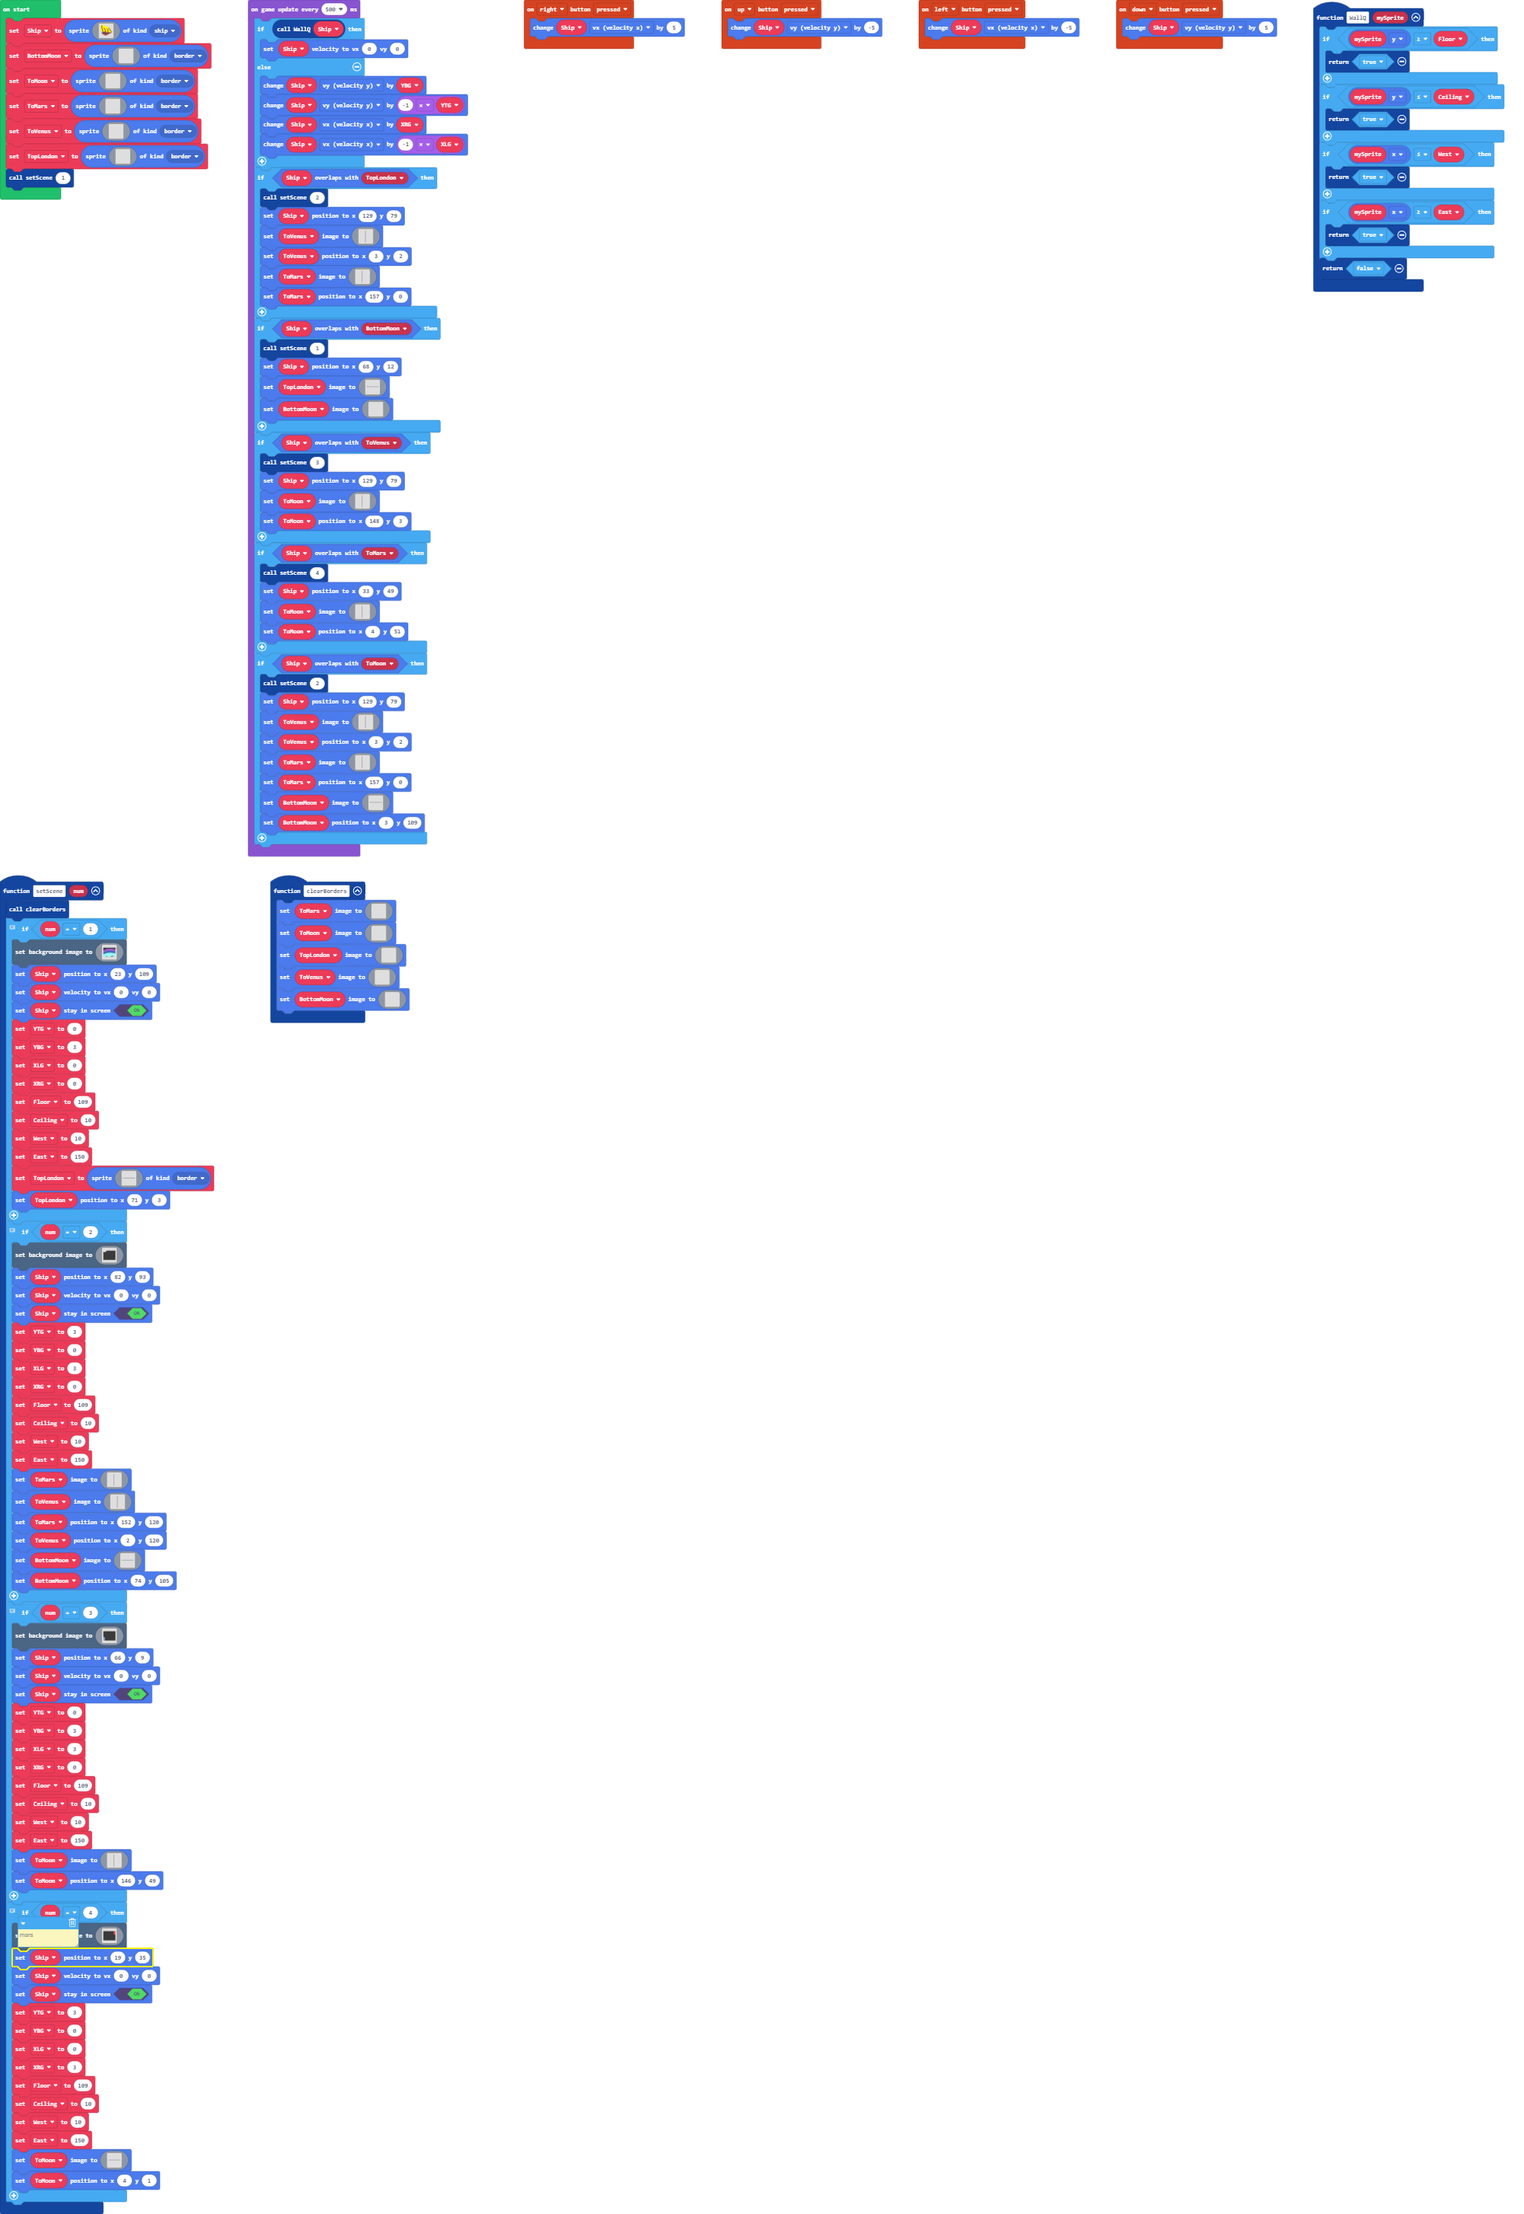
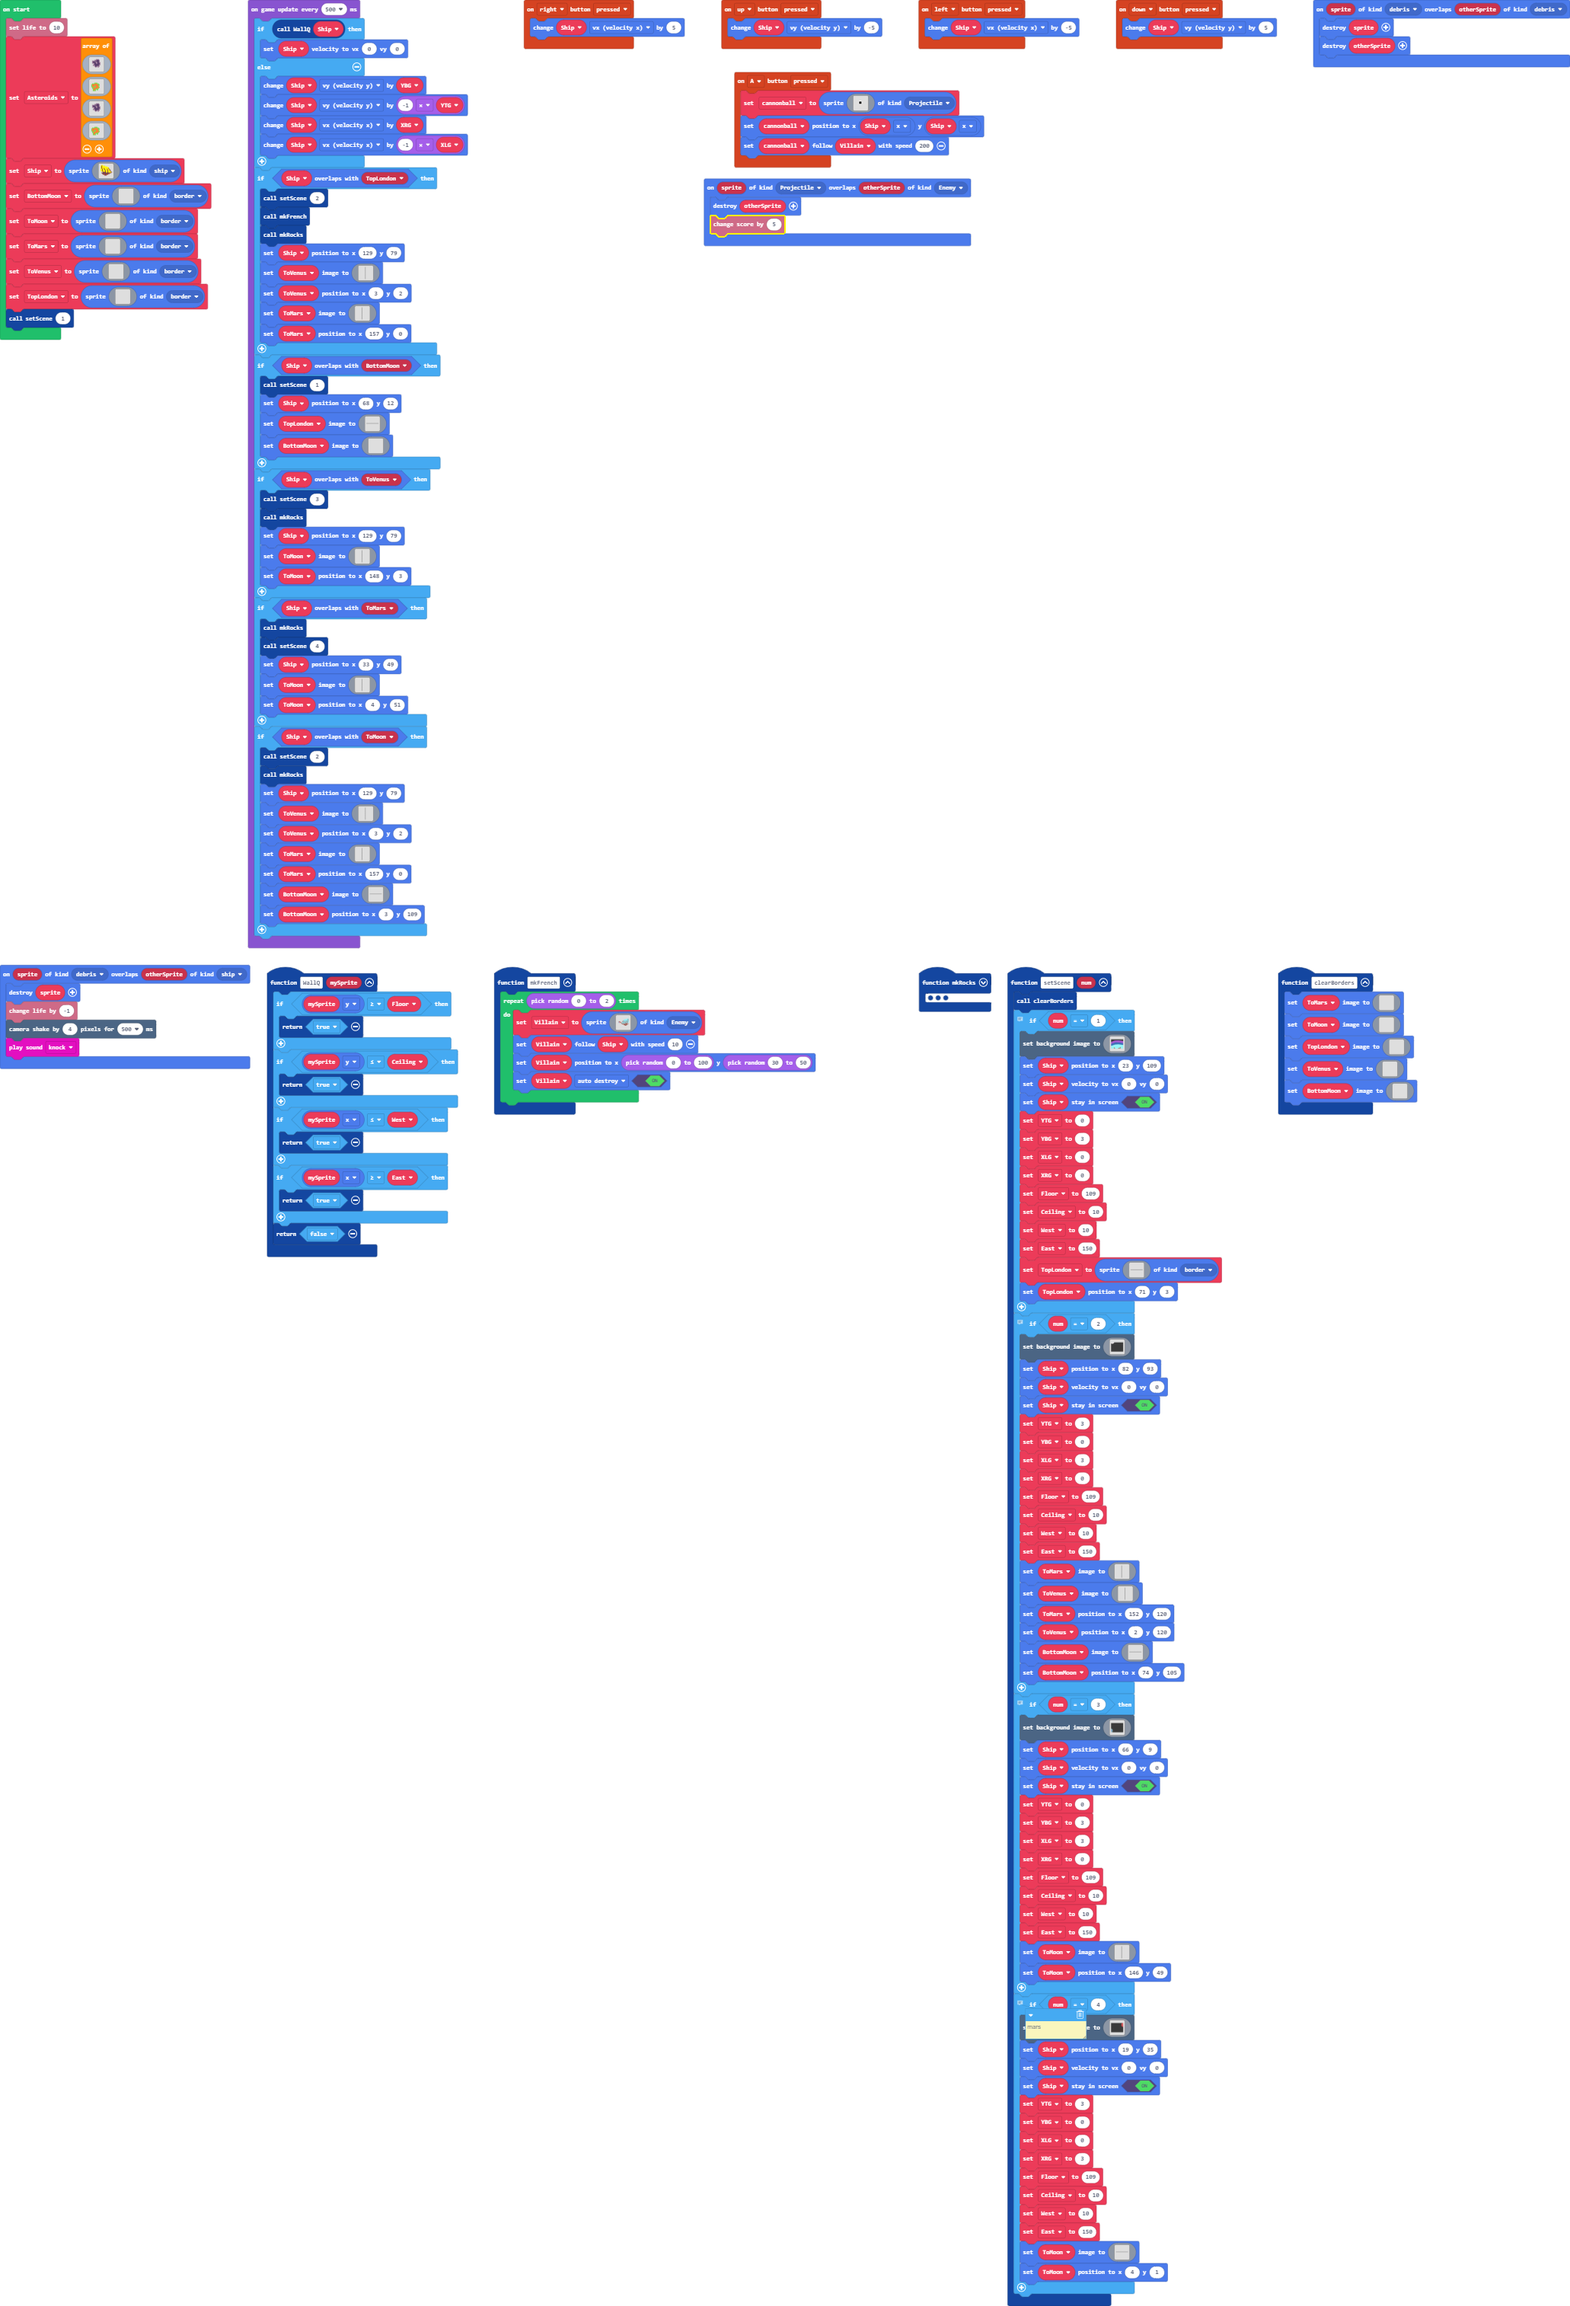
Update main.blocks, main.ts, images.g.jres, images.g.ts

diff --git a/main.ts b/main.ts
@@ -1,15 +1,43 @@
 namespace SpriteKind {
     export const ship = SpriteKind.create()
     export const border = SpriteKind.create()
+    export const debris = SpriteKind.create()
 }
 controller.up.onEvent(ControllerButtonEvent.Pressed, function () {
     Ship.vy += -5
 })
+controller.A.onEvent(ControllerButtonEvent.Pressed, function () {
+    cannonball = sprites.create(assets.image`cannonball`, SpriteKind.Projectile)
+    cannonball.setPosition(Ship.x, Ship.x)
+    cannonball.follow(Villain, 200)
+})
 controller.left.onEvent(ControllerButtonEvent.Pressed, function () {
     Ship.vx += -5
 })
+function mkRocks () {
+    for (let index = 0; index < randint(2, 5); index++) {
+        rock = sprites.create(Asteroids[randint(0, 3)], SpriteKind.debris)
+        rock.setVelocity(randint(-50, 50), randint(-50, 50))
+        rock.setPosition(randint(30, 50), randint(30, 50))
+        rock.setFlag(SpriteFlag.DestroyOnWall, true)
+    }
+}
 controller.right.onEvent(ControllerButtonEvent.Pressed, function () {
     Ship.vx += 5
+})
+function mkFrench () {
+    for (let index = 0; index < randint(0, 2); index++) {
+        Villain = sprites.create(assets.image`French`, SpriteKind.Enemy)
+        Villain.follow(Ship, 10)
+        Villain.setPosition(randint(0, 100), randint(30, 50))
+        Villain.setFlag(SpriteFlag.AutoDestroy, true)
+    }
+}
+sprites.onOverlap(SpriteKind.debris, SpriteKind.ship, function (sprite, otherSprite) {
+    sprite.destroy()
+    info.changeLifeBy(-1)
+    scene.cameraShake(4, 500)
+    music.knock.play()
 })
 function WallQ (mySprite: Sprite) {
     if (mySprite.y >= Floor) {
@@ -28,6 +56,10 @@ function WallQ (mySprite: Sprite) {
 }
 controller.down.onEvent(ControllerButtonEvent.Pressed, function () {
     Ship.vy += 5
+})
+sprites.onOverlap(SpriteKind.debris, SpriteKind.debris, function (sprite, otherSprite) {
+    sprite.destroy()
+    otherSprite.destroy()
 })
 function setScene (num: number) {
     clearBorders()
@@ -105,6 +137,10 @@ function setScene (num: number) {
         ToMoon.setPosition(4, 1)
     }
 }
+sprites.onOverlap(SpriteKind.Projectile, SpriteKind.Enemy, function (sprite, otherSprite) {
+    otherSprite.destroy()
+    info.changeScoreBy(5)
+})
 function clearBorders () {
     ToMars.setImage(assets.image`blah`)
     ToMoon.setImage(assets.image`blah`)
@@ -120,12 +156,23 @@ let East = 0
 let West = 0
 let Ceiling = 0
 let Floor = 0
+let rock: Sprite = null
+let Villain: Sprite = null
+let cannonball: Sprite = null
 let TopLondon: Sprite = null
 let ToVenus: Sprite = null
 let ToMars: Sprite = null
 let ToMoon: Sprite = null
 let BottomMoon: Sprite = null
 let Ship: Sprite = null
+let Asteroids: Image[] = []
+info.setLife(10)
+Asteroids = [
+assets.image`Asteroid1`,
+assets.image`Asteroid2`,
+assets.image`Asteroid1`,
+assets.image`Asteroid2`
+]
 Ship = sprites.create(assets.image`ship`, SpriteKind.ship)
 BottomMoon = sprites.create(assets.image`blah`, SpriteKind.border)
 ToMoon = sprites.create(assets.image`blah`, SpriteKind.border)
@@ -144,6 +191,8 @@ game.onUpdateInterval(500, function () {
     }
     if (Ship.overlapsWith(TopLondon)) {
         setScene(2)
+        mkFrench()
+        mkRocks()
         Ship.setPosition(129, 79)
         ToVenus.setImage(assets.image`Edge`)
         ToVenus.setPosition(3, 2)
@@ -158,11 +207,13 @@ game.onUpdateInterval(500, function () {
     }
     if (Ship.overlapsWith(ToVenus)) {
         setScene(3)
+        mkRocks()
         Ship.setPosition(129, 79)
         ToMoon.setImage(assets.image`Edge`)
         ToMoon.setPosition(148, 3)
     }
     if (Ship.overlapsWith(ToMars)) {
+        mkRocks()
         setScene(4)
         Ship.setPosition(33, 49)
         ToMoon.setImage(assets.image`Edge`)
@@ -170,6 +221,7 @@ game.onUpdateInterval(500, function () {
     }
     if (Ship.overlapsWith(ToMoon)) {
         setScene(2)
+        mkRocks()
         Ship.setPosition(129, 79)
         ToVenus.setImage(assets.image`Edge`)
         ToVenus.setPosition(3, 2)

diff --git a/images.g.ts b/images.g.ts
@@ -781,6 +781,82 @@ ffffffffffffffffffffffffffffffffffffffffffffffffffffffffffffffffffffffffffffffff
 ffffffffffffffffffffffffffffffffffffffffffffffffffffffffffffffffffffffffffffffffffffffffffffffffffffffffffffffffffffffffffffffffffffffffffffffffffffffffffffffff
 ffffffffffffffffffffffffffffffffffffffffffffffffffffffffffffffffffffffffffffffffffffffffffffffffffffffffffffffffffffffffffffffffffffffffffffffffffffffffffffffff
 `;
+            case "image8":
+            case "Asteroid1":return img`
+. . . . . . . . . . . . . . . . 
+. . . . . . . b b b b . . . . . 
+. . . . . b b b c c c b . . . . 
+. . b b b b c c c c c b . . . . 
+. . b c c c b b c c c b . . . . 
+. . b c c c c b b c c b b . . . 
+. . b b b c c b b c c c b . . . 
+. . . . b c c c c c c c b . . . 
+. . . b b c c c c c c b b . . . 
+. . . b b b c c c c c b . . . . 
+. . . . . b c c b b b b . . . . 
+. . . . . . b b . b b . . . . . 
+. . . . . . . . . . . . . . . . 
+. . . . . . . . . . . . . . . . 
+. . . . . . . . . . . . . . . . 
+. . . . . . . . . . . . . . . . 
+`;
+            case "image9":
+            case "Asteroid2":return img`
+. . . . . . . . . . . . . . . . 
+. . . . . . . . . . . . . . . . 
+. . . . . . . . . . . . . . . . 
+. . . . . 7 7 7 7 . . . . . . . 
+. . 7 7 7 7 4 4 7 7 7 . . . . . 
+. 7 4 4 4 4 4 4 4 4 7 7 . . . . 
+. 7 4 4 4 4 4 4 4 4 7 7 . . . . 
+. 7 4 4 4 7 7 4 4 4 7 . . . . . 
+. 7 7 4 7 7 7 4 4 4 4 7 . . . . 
+. . 7 4 7 4 4 4 4 4 4 7 . . . . 
+. . 7 7 4 4 4 4 4 7 7 . . . . . 
+. . . 7 4 4 7 7 7 7 . . . . . . 
+. . . 7 4 4 7 . 7 7 . . . . . . 
+. . . 7 7 7 7 . . . . . . . . . 
+. . . . . . . . . . . . . . . . 
+. . . . . . . . . . . . . . . . 
+`;
+            case "image7":
+            case "French":return img`
+....................99..
+.................9999e9.
+..............9999999e9.
+............999999999e9.
+............e99999e99e9.
+...........e99e99e99e99.
+...eee....e99e999e99e99.
+...812e...e99e99e999e99.
+...812.e.e999e99e999e9..
+........e9999e99eeee....
+.........eeee1ee1ee1ee..
+...........eeeeeeeeee...
+.............eeeeeee....
+...............eee......
+........................
+........................
+`;
+            case "image10":
+            case "cannonball":return img`
+. . . . . . . . . . . . . . . . 
+. . . . . . . . . . . . . . . . 
+. . . . . . . . . . . . . . . . 
+. . . . . . . . . . . . . . . . 
+. . . . . . . . . . . . . . . . 
+. . . . . . 1 1 1 . . . . . . . 
+. . . . . 1 f f f 1 . . . . . . 
+. . . . . 1 f f f 1 . . . . . . 
+. . . . . 1 f f f 1 . . . . . . 
+. . . . . . 1 1 1 . . . . . . . 
+. . . . . . . . . . . . . . . . 
+. . . . . . . . . . . . . . . . 
+. . . . . . . . . . . . . . . . 
+. . . . . . . . . . . . . . . . 
+. . . . . . . . . . . . . . . . 
+. . . . . . . . . . . . . . . . 
+`;
         }
         return null;
     })
